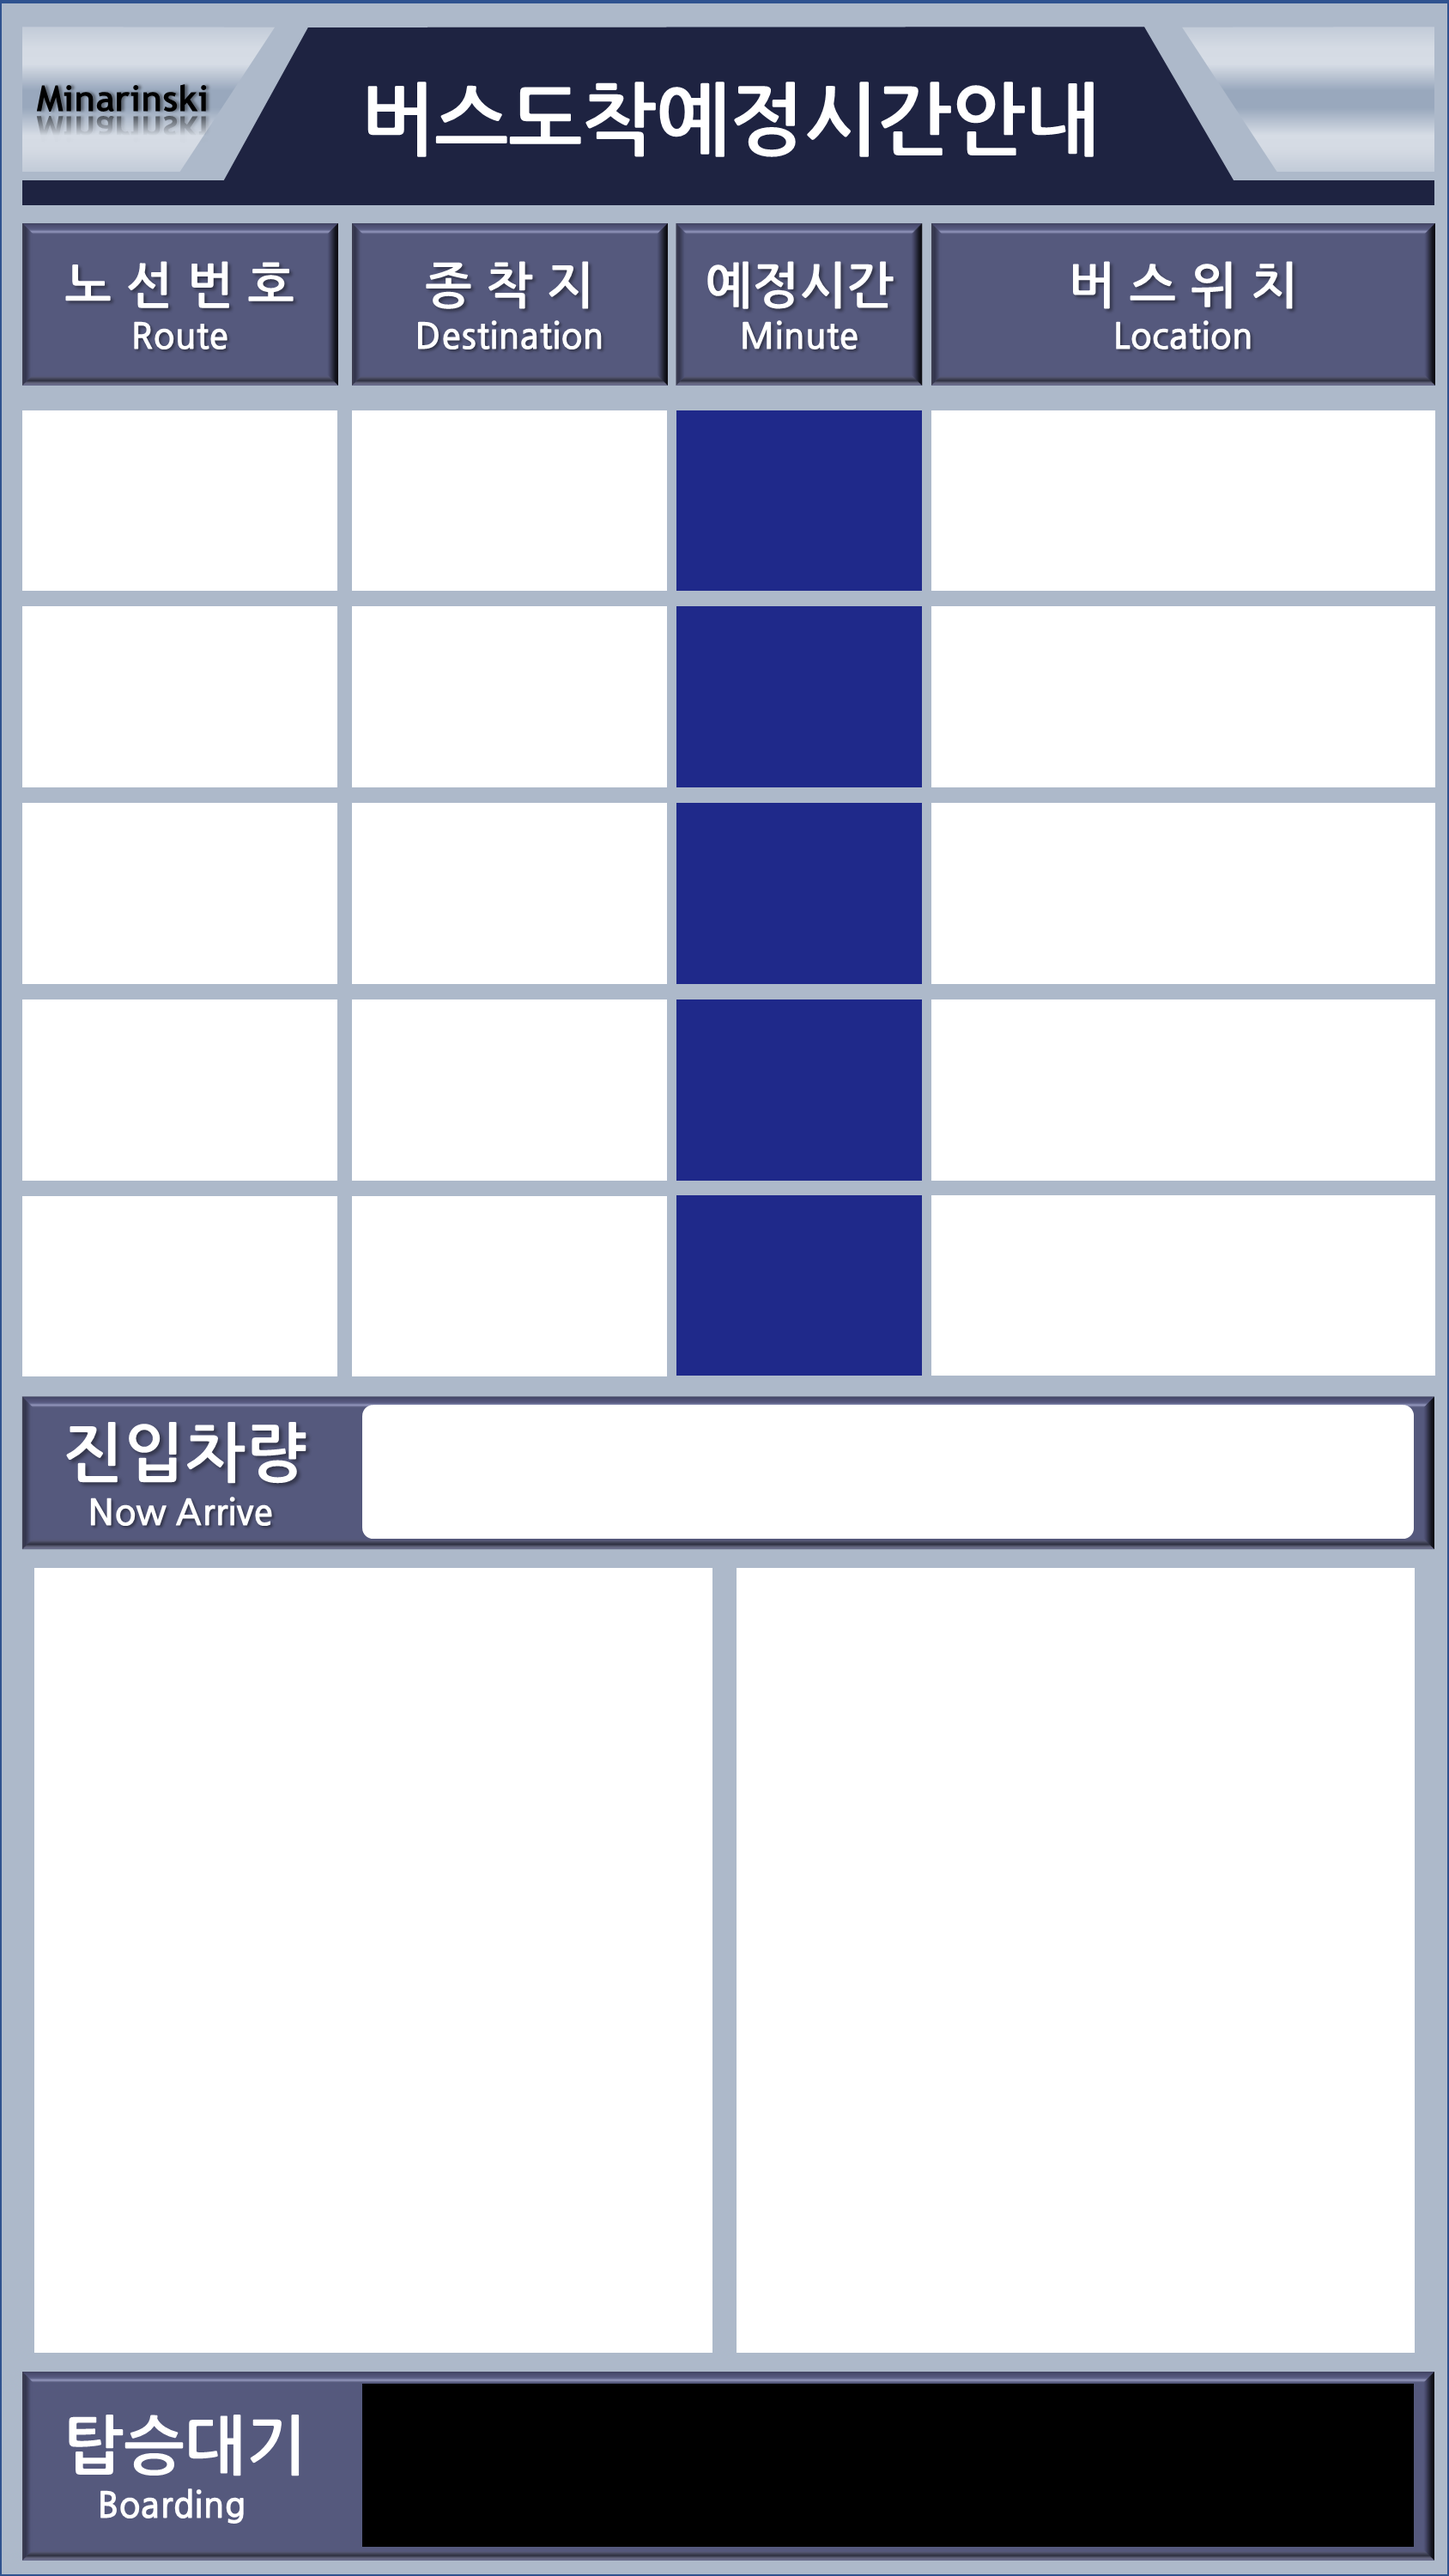
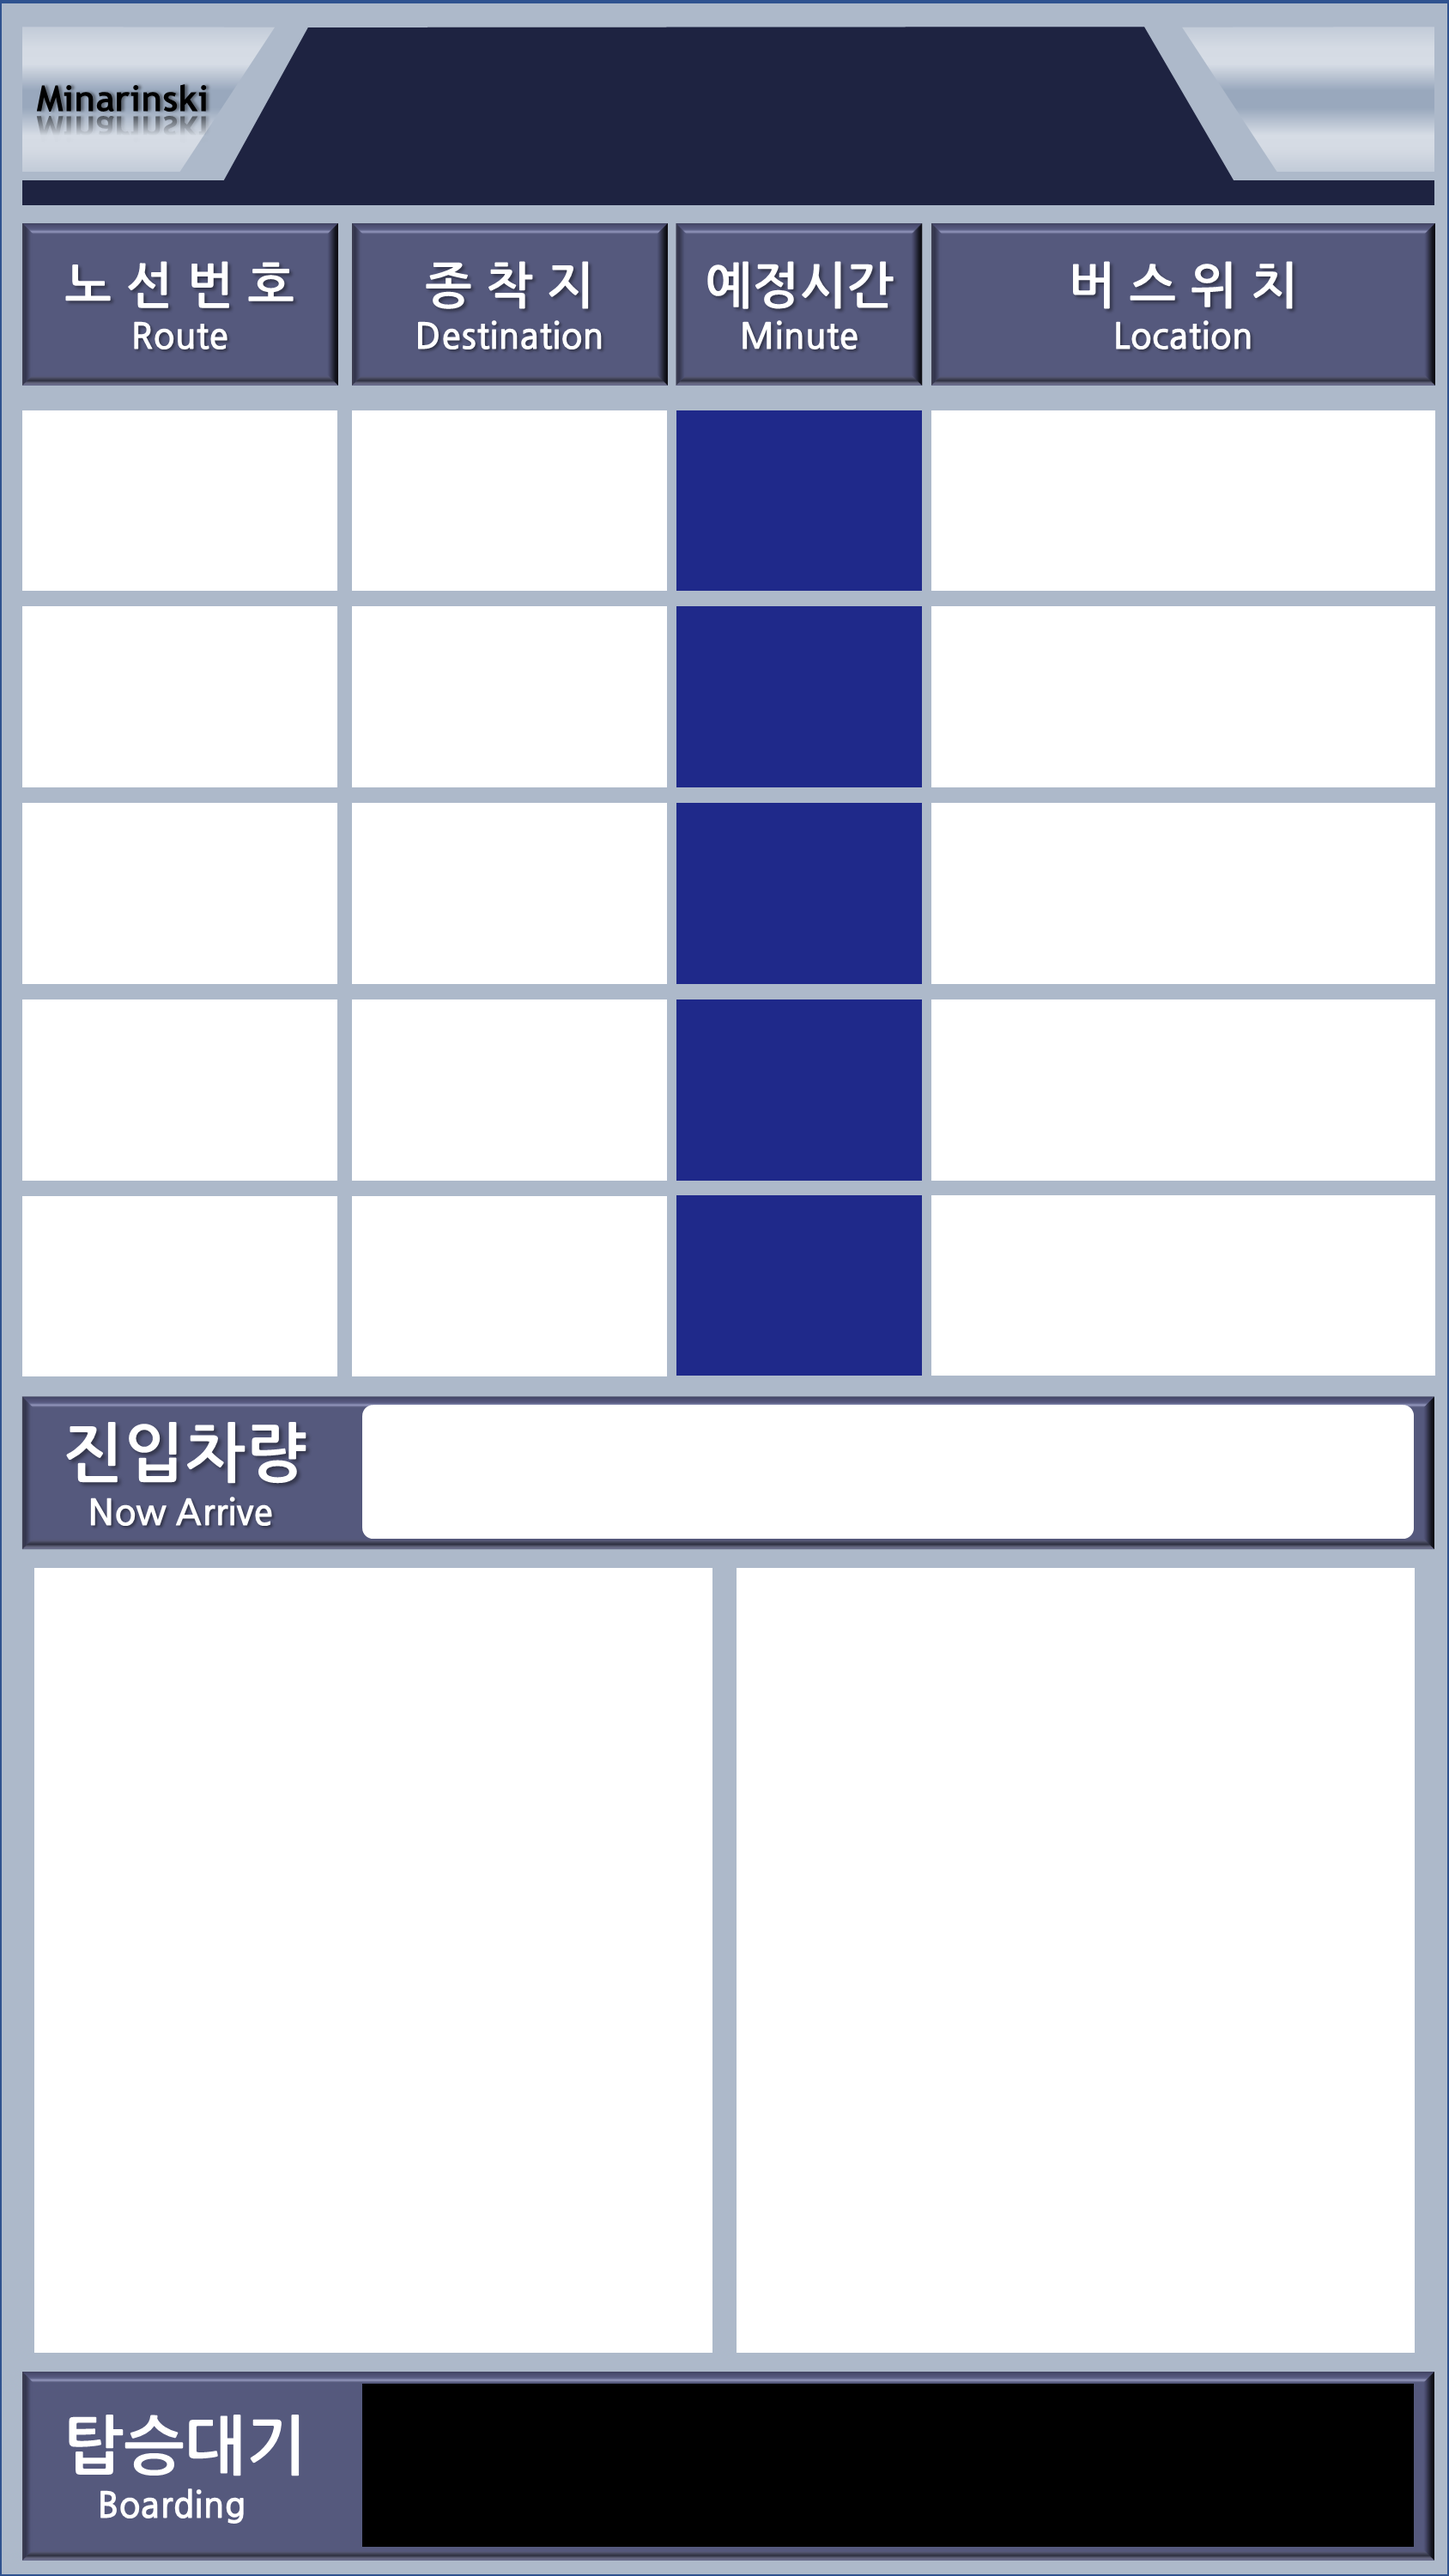
only ars

Changed region(s): [[0.2464, 0.031, 0.7701, 0.062]]

diff --git a/BusInfo_Python/BusInfo.py b/BusInfo_Python/BusInfo.py
@@ -31,16 +31,15 @@ pageFix = False
 class ApiThread(QThread):
     update_arrive_info = pyqtSignal(list)
 
-    def __init__(self, key, BusStopID, BusStopArs):
+    def __init__(self, key, BusStopArs):
         super().__init__()
         self.key = key
-        self.BusStopID = BusStopID
         self.BusStopArs = BusStopArs
         
 
     def run(self):
         while self.key:
-            response = requests.get(f'http://openapitraffic.daejeon.go.kr/api/rest/arrive/getArrInfoByStopID?serviceKey={self.key}&BusStopID={self.BusStopID}')
+            response = requests.get(f'http://openapitraffic.daejeon.go.kr/api/rest/arrive/getArrInfoByUid?serviceKey={self.key}&arsId={self.BusStopArs}')
             ArriveInfoDict = xmltodict.parse(response.text)
             ArriveInfoListBefore = []
             #mutex.lock()
@@ -311,7 +310,6 @@ class BusArrivalApp(QtWidgets.QDialog):
         self.now = datetime.now()
         
         self.key = ''
-        self.BusStopID = ''
         self.BusStopArs = ''
         self.ArriveInfoList = []
         self.pageFlag = 0
@@ -333,12 +331,15 @@ class BusArrivalApp(QtWidgets.QDialog):
         
         self.getKey("key.txt")
         self.getInfo("./info.txt")
+        
+        
 
-        response = requests.get(f'http://openapitraffic.daejeon.go.kr/api/rest/arrive/getArrInfoByStopID?serviceKey={self.key}&Bu sStopID={self.BusStopID}')
-            
+        response = requests.get(f'http://openapitraffic.daejeon.go.kr/api/rest/stationinfo/getStationByUid?serviceKey={self.key}&arsId={self.BusStopArs}')
+        ArriveInfoDict = xmltodict.parse(response.text)
+        self.ui.title.setText(ArriveInfoDict['ServiceResult']['msgBody']['itemList']['BUSSTOP_NM'])
 
         # QThreads
-        self.api_thread = ApiThread(self.key, self.BusStopID, self.BusStopArs)
+        self.api_thread = ApiThread(self.key, self.BusStopArs)
         self.api_thread.update_arrive_info.connect(self.updateArriveInfo)
         self.api_thread.start()
 
@@ -391,7 +392,6 @@ class BusArrivalApp(QtWidgets.QDialog):
                 for line in lines:
                     a, b = line.split('=')
                     d[a] = b.strip()
-                self.BusStopID = d['BusStopID']
                 self.BusStopArs = d['BusStopArs']
         except:
             print("info.txt file not found.")

diff --git a/BusInfo_Python/BusInfoPyQt.py b/BusInfo_Python/BusInfoPyQt.py
@@ -387,6 +387,17 @@ class Ui_Dialog(object):
         self.cnt_down.setFont(font)
         self.cnt_down.setStyleSheet("color: rgb(0, 0, 255);")
         self.cnt_down.setObjectName("cnt_down")
+        self.title = QtWidgets.QLabel(Dialog)
+        self.title.setGeometry(QtCore.QRect(230, 20, 621, 121))
+        font = QtGui.QFont()
+        font.setFamily("맑은 고딕")
+        font.setPointSize(36)
+        font.setBold(True)
+        font.setWeight(75)
+        self.title.setFont(font)
+        self.title.setStyleSheet("color: rgb(255, 255, 255);")
+        self.title.setAlignment(QtCore.Qt.AlignCenter)
+        self.title.setObjectName("title")
 
         self.retranslateUi(Dialog)
         QtCore.QMetaObject.connectSlotsByName(Dialog)
@@ -398,6 +409,7 @@ class Ui_Dialog(object):
         self.label_23.setText(_translate("Dialog", "TextLabel"))
         self.label_24.setText(_translate("Dialog", "TextLabel"))
         self.cnt_down.setText(_translate("Dialog", "5"))
+        self.title.setText(_translate("Dialog", "busStop"))
 import resources_rc
 
 
